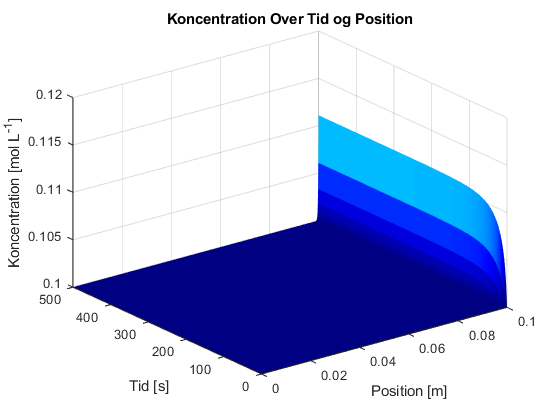
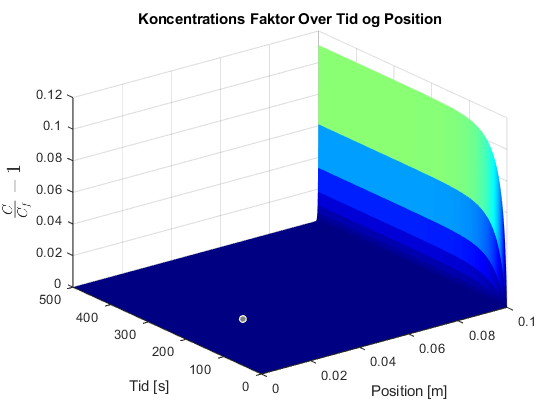
figure change

diff --git a/step4.m b/step4.m
@@ -159,7 +159,9 @@ ylabel('Jv (Velocity)');
 title('Jv (Velocity) Over Time');
 grid on;
 
-% Sideplot
+%% Sideplot
+
+% Time indices
 time_instances = [1, 5, 25, 50, 100, 250, 500];
 
 figure;
@@ -168,14 +170,14 @@ hold on;
 % Plot concentration at specific time instances
 for i = 1:length(time_instances)
     time_index = time_instances(i);
-    plot(x, C(:, time_index));
+    plot(x, C(:, time_index)/feed_conc - 1);
 end
 
 xlabel('Position [m]');
-ylabel('Koncentration [mol L^{-1}]');
-title('Koncentration over Position ved Forskellige Tidsfraktioner');
+ylabel('CF - 1');
+title('Centreret CF over Position ved Forskellige Tidspunkter');
 xlim([0.099, domain_length]);
-ylim([0.1, 0.12]);
+ylim([0, 0.12]);
 
 % Add a legend for clarity
 legend(arrayfun(@(f) ['t=', num2str(f), 's'], time_instances, 'UniformOutput', false));
@@ -183,26 +185,22 @@ legend(arrayfun(@(f) ['t=', num2str(f), 's'], time_instances, 'UniformOutput', f
 grid on;
 hold off;
 
-
 %% 3D Plot
 
-% Create a 3D surface plot to visualize concentration over time and position
+% 3D surface plot - concentration over time and position
 [T, X] = meshgrid(t, x);
 figure;
-h = surf(X, T, C); % Transpose removed here
+h = surf(X, T, (C/feed_conc)-1);
 xlabel('Position [m]');
 ylabel('Tid [s]');
-zlabel('Koncentration [mol L^{-1}]');
-title('Koncentration Over Tid og Position');
-
-% Set axis limits to start at the origin
+zlabel('CF - 1');
+title('Centreret Koncentrations Faktor Over Tid og Position');
 xlim([0, domain_length]);
 ylim([0, time_length]);
-zlim([0.1, 0.12]); % Assuming max(C(:)) is the maximum concentration in your data
-
+zlim([0, 0.12]);
 set(h,'LineStyle','none')
 colormap(jet)
-clim([0.1, 0.11])
+clim([0, 0.12])
 
 
 %%

diff --git a/step3.m b/step3.m
@@ -153,14 +153,14 @@ hold on;
 % Plot concentration at specific time instances
 for i = 1:length(time_instances)
     time_index = time_instances(i);
-    plot(x, C(:, time_index));
+    plot(x, C(:, time_index)/feed_conc - 1);
 end
 
 xlabel('Position [m]');
-ylabel('Koncentration [mol L^{-1}]');
-title('Koncentration over Position ved Forskellige Tidspunkter');
+ylabel('CF - 1');
+title('Centreret CF over Position ved Forskellige Tidspunkter');
 xlim([0.099, domain_length]);
-ylim([0.1, 0.12]);
+ylim([0, 0.12]);
 
 % Add a legend for clarity
 legend(arrayfun(@(f) ['t=', num2str(f), 's'], time_instances, 'UniformOutput', false));
@@ -170,23 +170,21 @@ hold off;
 
 %% 3D Plot
 
-% Create a 3D surface plot to visualize concentration over time and position
+% 3D surface plot - concentration over time and position
 [T, X] = meshgrid(t, x);
 figure;
-h = surf(X, T, C); % Transpose removed here
+h = surf(X, T, (C/feed_conc)-1);
 xlabel('Position [m]');
 ylabel('Tid [s]');
-zlabel('Koncentration [mol L^{-1}]');
-title('Koncentration Over Tid og Position');
-
-% Set axis limits
+zlabel('CF - 1');
+title('Centreret Koncentrations Faktor Over Tid og Position');
 xlim([0, domain_length]);
 ylim([0, time_length]);
-zlim([0, 0.12]); % Assuming max(C(:)) is the maximum concentration in your data
-
+zlim([0, 0.12]);
 set(h,'LineStyle','none')
 colormap(jet)
-clim([0.1 0.12])
+clim([0, 0.12])
+
 
 %%
 save('step3jv', 'Jv_values3')

diff --git a/step1.m b/step1.m
@@ -131,23 +131,20 @@ grid on;
 
 %% 3D Plot
 
-% Create a 3D surface plot to visualize concentration over time and position
+% 3D surface plot - concentration over time and position
 [T, X] = meshgrid(t, x);
 figure;
-h = surf(X, T, C); % Transpose removed here
+h = surf(X, T, (C/feed_conc)-1);
 xlabel('Position [m]');
 ylabel('Tid [s]');
-zlabel('Koncentration [mol L^{-1}]');
-title('Koncentration Over Tid og Position');
-
-% Set axis limits to start at the origin
+zlabel('CF - 1');
+title('Centreret Koncentrations Faktor Over Tid og Position');
 xlim([0, domain_length]);
 ylim([0, time_length]);
-zlim([0.1, 0.12]); % Assuming max(C(:)) is the maximum concentration in your data
-
+zlim([0, 0.12]);
 set(h,'LineStyle','none')
 colormap(jet)
-clim([0.1 0.12])
+clim([0, 0.12])
 
 %%
 save('step1jv', 'Jv_values1')

diff --git a/step2.m b/step2.m
@@ -118,23 +118,20 @@ grid on;
 
 %% 3D Plot
 
-% Create a 3D surface plot to visualize concentration over time and position
+% 3D surface plot - concentration over time and position
 [T, X] = meshgrid(t, x);
 figure;
-h = surf(X, T, C); % Transpose removed here
+h = surf(X, T, (C/feed_conc)-1);
 xlabel('Position [m]');
 ylabel('Tid [s]');
-zlabel('Koncentration [mol L^{-1}]');
-title('Koncentration Over Tid og Position');
-
-% Set axis limits to start at the origin
+zlabel('CF - 1');
+title('Centreret Koncentrations Faktor Over Tid og Position');
 xlim([0, domain_length]);
 ylim([0, time_length]);
-zlim([0.1, 0.12]); % Assuming max(C(:)) is the maximum concentration in your data
-
+zlim([0, 0.12]);
 set(h,'LineStyle','none')
 colormap(jet)
-clim([0.1 0.12])
+clim([0, 0.12])
 
 %%
 save('step2jv', 'Jv_values2')
